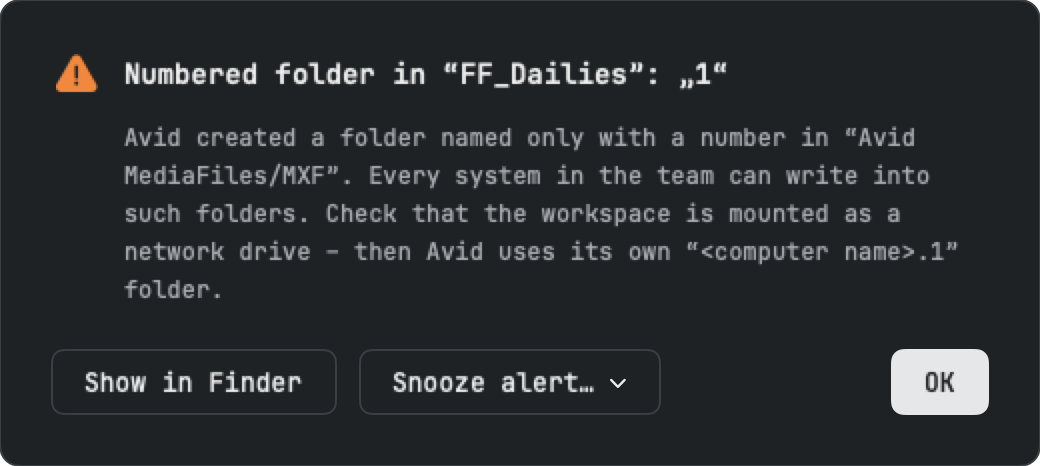
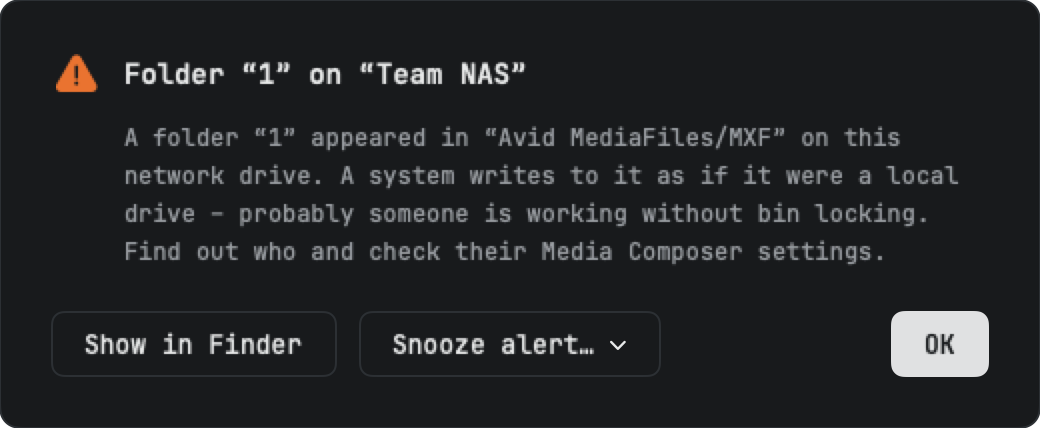
Nur der 1er-Ordner zählt, Panel bleibt bei Alarm offen
- "Eigener Ordner" warnt nur bei "1" (lokal) bzw. "<Rechnername>.1" (Netzlaufwerk)
- Netzlaufwerk-Warnung nur bei einem neuen Ordner "1"
- Warnung pro Workspace/Projekt entfernt, nur noch global
- Systemvolume steht beim Hinzufügen auf "Eigener Ordner"
- Panel schließt sich nicht mehr, wenn ein Alarm weggeklickt wird
- Screenshots (Alarm, Einstellungen) erneuert

diff --git a/Tests/MountpointTests/NumberedTests.swift b/Tests/MountpointTests/NumberedTests.swift
@@ -3,18 +3,10 @@ import Testing
 @testable import Mountpoint
 
 struct NumberedLogicTests {
-    @Test func onlyDigitsCount() {
-        #expect(isNumberedFolder("1"))
-        #expect(isNumberedFolder("12"))
-        #expect(!isNumberedFolder("Mac Studio.1"))
-        #expect(!isNumberedFolder("1a"))
-        #expect(!isNumberedFolder(""))
-        #expect(!isNumberedFolder("١"))   // keine nicht-lateinischen Ziffern
-    }
-
     @Test func ownFolderOnNetworkDrives() {
         #expect(isOwnFolder("Mac Studio.1", computer: "Mac Studio"))
-        #expect(isOwnFolder("mac studio.12", computer: "Mac Studio"))
+        #expect(isOwnFolder("mac studio.1", computer: "Mac Studio"))
+        #expect(!isOwnFolder("Mac Studio.2", computer: "Mac Studio"))   // nur der 1er
         #expect(!isOwnFolder("Mac Studio 2.1", computer: "Mac Studio"))   // anderer Rechner
         #expect(!isOwnFolder("Mac Studio.", computer: "Mac Studio"))
         #expect(!isOwnFolder("1", computer: "Mac Studio"))
@@ -40,30 +32,19 @@ struct NumberedLogicTests {
         #expect(s.state(of: p) == .none)
     }
 
-    @Test func oldWorkspaceEntriesStillLoad() throws {
-        let json = #"{"workspaces":[{"id":"7C9F8E2A-1111-4222-8333-444455556666","path":"/x/AI_Media"}]}"#
+    @Test func oldWorkspaceEntriesWithWarningStillLoad() throws {
+        let json = #"{"workspaces":[{"id":"7C9F8E2A-1111-4222-8333-444455556666","path":"/x/AI_Media","warnNumbered":true}]}"#
         let lib = try JSONDecoder().decode(Library.self, from: Data(json.utf8))
-        #expect(lib.workspaces[0].warnNumbered == nil)
+        #expect(lib.workspaces.map(\.name) == ["AI_Media"])
     }
 
-    @Test @MainActor func projectCheckmarkFollowsWorkspaces() {
-        let s = Store(directory: FileManager.default.temporaryDirectory.appendingPathComponent("mp-num-\(UUID())"))
-        s.addProject("Doku")
-        let p = s.library.projects[0].id
-        s.add(URL(fileURLWithPath: "/tmp/a"), to: p)
-        s.add(URL(fileURLWithPath: "/tmp/b"), to: p)
-        #expect(!s.projectWarns(p))
-        s.toggleProjectWarn(p)                       // Projekt an → alle an
-        #expect(s.library.workspaces.allSatisfy { $0.warnNumbered == true })
-        s.toggleWarn(s.library.workspaces[0])        // einen aus → Projekt aus, der andere bleibt an
-        #expect(!s.projectWarns(p))
-        #expect(s.library.workspaces[1].warnNumbered == true)
-        s.toggleWarn(s.library.workspaces[0])        // wieder an → Projekt an
-        #expect(s.projectWarns(p))
-        s.add(URL(fileURLWithPath: "/tmp/c"), to: p) // neuer Workspace erbt
-        #expect(s.library.workspaces[2].warnNumbered == true)
-        s.toggleProjectWarn(p)                       // Projekt aus → alle aus
-        #expect(s.library.workspaces.allSatisfy { $0.warnNumbered == false })
+    @Test @MainActor func systemVolumeWatchesOwnFolderByDefault() {
+        let s = Store(directory: FileManager.default.temporaryDirectory.appendingPathComponent("mp-sys-\(UUID())"))
+        s.addGuard(systemGuard)
+        s.addGuard("LucidLink")
+        #expect(s.library.guardOwn == [systemGuard])
+        s.removeGuard(systemGuard)
+        #expect(s.library.guardOwn.isEmpty)
     }
 }
 
@@ -71,16 +52,15 @@ struct NumberedLogicTests {
 @MainActor
 struct NumberedIntegrationTests {
     @Test(.enabled(if: ProcessInfo.processInfo.environment["MOUNTPOINT_IT"] == "1"))
-    func warnsOnlyAboutNewNumberedFolders() async throws {
+    func warnsOnlyAboutANewOneFolder() async throws {
         let src = FileManager.default.temporaryDirectory.appendingPathComponent("NumTest\(getpid())")
         try FileManager.default.createDirectory(at: src.appendingPathComponent("Avid MediaFiles/MXF/1"), withIntermediateDirectories: true)
         defer { try? FileManager.default.removeItem(at: src) }
-        var w = Workspace(path: src.path)
-        w.warnNumbered = true
+        let w = Workspace(path: src.path)
         try Mounter.mount(w, helper: MountTests.helper)
         defer { try? Mounter.unmount(w) }
 
-        let watch = FolderWatch(workspace: w)
+        let watch = FolderWatch(key: "net:" + w.volumePath, name: w.name, mxf: w.volumePath + "/Avid MediaFiles/MXF", kind: .network, matches: { $0 == "1" })
         let guardian = VolumeGuard(names: { [] }, numbered: { [watch] })
         var alerts: [[String]] = []
         guardian.presentNumbered = { _, folders in alerts.append(folders) }
@@ -90,21 +70,16 @@ struct NumberedIntegrationTests {
         let mxf = w.volumePath + "/Avid MediaFiles/MXF/"
         try FileManager.default.createDirectory(atPath: mxf + "Mac Studio.1", withIntermediateDirectories: false)
         try FileManager.default.createDirectory(atPath: mxf + "2", withIntermediateDirectories: false)
-        for _ in 0..<30 where alerts.isEmpty { try await Task.sleep(nanoseconds: 100_000_000) }
-        #expect(alerts == [["2"]])
+        try await Task.sleep(nanoseconds: 1_000_000_000)
+        #expect(alerts.isEmpty, "only \"1\" counts")
 
-        guardian.acknowledgeNumbered(watch, ["2"])
-        try FileManager.default.createDirectory(atPath: mxf + "3", withIntermediateDirectories: false)
-        for _ in 0..<30 where alerts.count < 2 { try await Task.sleep(nanoseconds: 100_000_000) }
-        #expect(alerts.last == ["3"])
-
-        // gelöscht und neu angelegt → wieder ein Alarm
-        guardian.acknowledgeNumbered(watch, ["3"])
+        // gelöscht und neu angelegt → Alarm
         try FileManager.default.removeItem(atPath: mxf + "1")
         for _ in 0..<10 { try await Task.sleep(nanoseconds: 100_000_000) }
         try FileManager.default.createDirectory(atPath: mxf + "1", withIntermediateDirectories: false)
-        for _ in 0..<30 where alerts.count < 3 { try await Task.sleep(nanoseconds: 100_000_000) }
-        #expect(alerts.last == ["1"])
+        for _ in 0..<30 where alerts.isEmpty { try await Task.sleep(nanoseconds: 100_000_000) }
+        #expect(alerts == [["1"]])
+        guardian.acknowledgeNumbered(watch, ["1"])
         try await Task.sleep(nanoseconds: 1_000_000_000)   // Volume registriert sich, bevor es ausgeworfen wird
     }
 }

diff --git a/Sources/Mountpoint/Store.swift b/Sources/Mountpoint/Store.swift
@@ -79,8 +79,6 @@ final class Store: ObservableObject {
     func add(_ url: URL, to project: UUID?) {
         var w = Workspace.make(url: url)
         w.project = project
-        // Warnt das ganze Projekt, warnt auch der neue Workspace
-        if let project, projectWarns(project) { w.warnNumbered = true }
         library.workspaces.append(w)
         save()
     }
@@ -129,30 +127,6 @@ final class Store: ObservableObject {
     func unmount(_ w: Workspace) {
         do { try Mounter.unmount(w); errors[w.id] = nil } catch { errors[w.id] = error.localizedDescription }
         refresh()
-    }
-
-    // MARK: Warnung bei nummerierten Ordnern
-
-    func toggleWarn(_ w: Workspace) {
-        guard let i = library.workspaces.firstIndex(where: { $0.id == w.id }) else { return }
-        library.workspaces[i].warnNumbered = !(library.workspaces[i].warnNumbered ?? false)
-        save()
-        notifyGuard()
-    }
-
-    /// Projekt gilt als „an“, wenn alle seine Workspaces warnen.
-    func projectWarns(_ project: UUID) -> Bool {
-        let items = workspaces(in: project)
-        return !items.isEmpty && items.allSatisfy { $0.warnNumbered == true }
-    }
-
-    func toggleProjectWarn(_ project: UUID) {
-        let on = !projectWarns(project)
-        for i in library.workspaces.indices where library.workspaces[i].project == project {
-            library.workspaces[i].warnNumbered = on
-        }
-        save()
-        notifyGuard()
     }
 
     private func notifyGuard() {
@@ -225,15 +199,17 @@ final class Store: ObservableObject {
     func addGuard(_ name: String) {
         guard !library.guarded.contains(name) else { return }
         library.guarded.append(name)
+        // Auf dem Systemvolume legt die Avid-Installation „Avid MediaFiles“ an – dort zählt nur der eigene Ordner
+        if name == systemGuard && !library.guardOwn.contains(name) { library.guardOwn.append(name) }
         save()
-        VolumeGuard.shared.refresh()
+        notifyGuard()
     }
 
     func removeGuard(_ name: String) {
         library.guarded.removeAll { $0 == name }
         library.guardOwn.removeAll { $0 == name }
         save()
-        VolumeGuard.shared.refresh()
+        notifyGuard()
     }
 
     /// „Avid MediaFiles“ (aus) oder nur der eigene Ordner in MXF (an)
@@ -241,7 +217,7 @@ final class Store: ObservableObject {
         library.guardOwn.removeAll { $0 == name }
         if on { library.guardOwn.append(name) }
         save()
-        VolumeGuard.shared.refresh()
+        notifyGuard()
     }
 
     /// Volumes, die man schützen kann: das Systemvolume und eingehängte Volumes (ohne eigene Spiegel-Volumes)
@@ -255,22 +231,21 @@ final class Store: ObservableObject {
 
     /// MXF-Ordner, in denen neue Ordner eines Musters warnen
     func folderWatches() -> [FolderWatch] {
-        var watches = library.workspaces.filter { $0.warnNumbered == true && mounted.contains($0.id) }.map(FolderWatch.init(workspace:))
+        var watches: [FolderWatch] = []
         let computer = SCDynamicStoreCopyComputerName(nil, nil) as String? ?? ""
         for name in library.guarded where library.guardOwn.contains(name) {
             let root = guardRoot(name)
             guard name == systemGuard || isMountPoint(root) else { continue }
             let local = name == systemGuard || isLocal(root)
             watches.append(FolderWatch(key: "g:" + name, name: guardName(name), mxf: root + "/Avid MediaFiles/MXF", kind: .own,
-                                       matches: local ? isNumberedFolder : { isOwnFolder($0, computer: computer) }))
+                                       matches: local ? { $0 == "1" } : { isOwnFolder($0, computer: computer) }))
         }
         if watchNetwork {
-            let taken = Set(watches.filter { $0.kind == .workspace }.map(\.mxf))
             for url in FileManager.default.mountedVolumeURLs(includingResourceValuesForKeys: [.volumeIsLocalKey], options: [.skipHiddenVolumes]) ?? [] {
                 let mxf = url.path + "/Avid MediaFiles/MXF"
-                guard url.path.hasPrefix("/Volumes/"), !isLocal(url.path), !taken.contains(mxf),
+                guard url.path.hasPrefix("/Volumes/"), !isLocal(url.path),
                       FileManager.default.fileExists(atPath: url.path + "/Avid MediaFiles") else { continue }
-                watches.append(FolderWatch(key: "net:" + url.path, name: url.lastPathComponent, mxf: mxf, kind: .network, matches: isNumberedFolder))
+                watches.append(FolderWatch(key: "net:" + url.path, name: url.lastPathComponent, mxf: mxf, kind: .network, matches: { $0 == "1" }))
             }
         }
         return watches

diff --git a/Sources/Mountpoint/Guard.swift b/Sources/Mountpoint/Guard.swift
@@ -3,8 +3,8 @@ import SwiftUI
 
 /// Ein MXF-Ordner, in dem neue Ordner eines Musters warnen.
 struct FolderWatch {
-    enum Kind { case workspace, own, network }
-    /// merkt bekannte Ordner und Pausen; bei Workspaces ihre UUID (so heißen ältere gespeicherte Listen)
+    enum Kind { case own, network }
+    /// merkt bekannte Ordner und Pausen
     let key: String
     let name: String
     let mxf: String
@@ -17,10 +17,6 @@ struct FolderWatch {
         self.mxf = mxf
         self.kind = kind
         self.matches = matches
-    }
-
-    init(workspace w: Workspace) {
-        self.init(key: w.id.uuidString, name: w.name, mxf: w.volumePath + "/Avid MediaFiles/MXF", kind: .workspace, matches: isNumberedFolder)
     }
 }
 
@@ -37,6 +33,8 @@ final class VolumeGuard {
     /// Anzeige des Alarms (Tests ersetzen sie)
     var present: ((String) -> Void)?
     var presentNumbered: ((FolderWatch, [String]) -> Void)?
+    /// hält das Panel offen, solange ein Alarm offen ist – sonst schließt ein Klick auf den Alarm das Panel
+    var hold: ((Bool) -> Void)?
 
     private var mxfWatchers: [String: DispatchSourceFileSystemObject] = [:]
     /// bereits bekannte bzw. bestätigte Ordner je Beobachtung (Warnung nur bei neuen)
@@ -211,15 +209,12 @@ final class VolumeGuard {
         let list = folders.map { "„\($0)“" }.joined(separator: ", ")
         let title, message: String
         switch w.kind {
-        case .workspace:
-            title = String(localized: "Numbered folder in “\(w.name)”: \(list)")
-            message = String(localized: "Avid created a folder named only with a number in “Avid MediaFiles/MXF”. Every system in the team can write into such folders. Check that the workspace is mounted as a network drive – then Avid uses its own “<computer name>.1” folder.")
         case .own:
             title = String(localized: "Avid is writing to “\(w.name)”: \(list)")
             message = String(localized: "Your Media Composer created its folder in “Avid MediaFiles/MXF” on this volume. Check your import or render target.")
         case .network:
-            title = String(localized: "Numbered folder on “\(w.name)”: \(list)")
-            message = String(localized: "A folder named only with a number appeared in “Avid MediaFiles/MXF” on this network drive. A system writes to it as if it were a local drive – probably someone is working without bin locking. Find out who and check their Media Composer settings.")
+            title = String(localized: "Folder “1” on “\(w.name)”")
+            message = String(localized: "A folder “1” appeared in “Avid MediaFiles/MXF” on this network drive. A system writes to it as if it were a local drive – probably someone is working without bin locking. Find out who and check their Media Composer settings.")
         }
         let view = GuardAlert(title: title, message: message,
             dark: Store.shared.dark,
@@ -253,12 +248,13 @@ final class VolumeGuard {
                                          y: screen.midY - panel.frame.height / 2 - offset))
         }
         panel.orderFrontRegardless()
+        hold?(true)
         NSSound.beep()
         alerts[key] = panel
     }
 
     private func closeAlert(_ name: String) {
-        alerts[name]?.close()
+        if let panel = alerts[name] { panel.close(); hold?(false) }
         alerts[name] = nil
         active.remove(name)
     }

diff --git a/Sources/Mountpoint/Panel.swift b/Sources/Mountpoint/Panel.swift
@@ -246,10 +246,10 @@ struct Panel: View {
                 }
             }
             .disabled(candidates.isEmpty)
-            Checkbox(title: "Warn about numbered folders on network drives", on: store.watchNetwork, theme: t) {
+            Checkbox(title: "Warn about a “1” folder on network drives", on: store.watchNetwork, theme: t) {
                 store.watchNetwork.toggle()
             }
-            Text("On every connected network drive with “Avid MediaFiles”: warns when a folder named only with a number (“1”) appears in MXF – a sign that someone is working without bin locking.")
+            Text("On every connected network drive with “Avid MediaFiles”: warns when a folder “1” appears in MXF – a sign that someone is working without bin locking.")
                 .font(.mono(11))
                 .foregroundColor(t.faint)
                 .fixedSize(horizontal: false, vertical: true)
@@ -321,8 +321,6 @@ struct Panel: View {
 
                 MoreMenu(theme: t) {
                     Toggle("Mount at app launch", isOn: Binding(get: { p.mountAtLaunch }, set: { _ in store.toggleMountAtLaunch(p) }))
-                    Toggle("Warn about numbered folders", isOn: Binding(get: { store.projectWarns(p.id) }, set: { _ in store.toggleProjectWarn(p.id) }))
-                        .disabled(items.isEmpty)
                     Button("Add workspace…") { addWorkspace(to: p.id) }
                     Button("Clear error messages") { store.clearErrors(in: p.id) }
                         .disabled(!items.contains { store.errors[$0.id] != nil })
@@ -394,7 +392,6 @@ struct Panel: View {
                 Button("Show in Finder") {
                     NSWorkspace.shared.open(URL(fileURLWithPath: isMounted ? w.volumePath : w.path))
                 }
-                Toggle("Warn about numbered folders", isOn: Binding(get: { w.warnNumbered == true }, set: { _ in store.toggleWarn(w) }))
                 Divider()
                 Button("Remove workspace…") { show(.removeWorkspace(w)) }
             }

diff --git a/Sources/Mountpoint/Model.swift b/Sources/Mountpoint/Model.swift
@@ -16,9 +16,6 @@ struct Workspace: Codable, Identifiable, Hashable {
     var share: String?
     /// Pfad innerhalb der Freigabe ("" = Freigabe selbst)
     var shareSubpath: String?
-    /// Warnen, wenn in MXF ein Ordner nur aus Ziffern entsteht ("1", "2" …) – die schreibt im Team jedes System.
-    /// Optional, damit ältere Dateien ohne das Feld weiter laden.
-    var warnNumbered: Bool?
 
     var name: String { (path as NSString).lastPathComponent }
     var volumePath: String { "/Volumes/" + name }
@@ -107,16 +104,9 @@ enum Snooze: Hashable {
     static let all: [Snooze] = [5, 10, 15, 30, 60, 120, 180, 240].map { .minutes($0) } + [.restOfDay]
 }
 
-/// Ordnername nur aus Ziffern, z. B. "1" oder "12" (nicht "Mac Studio.1")
-func isNumberedFolder(_ name: String) -> Bool {
-    !name.isEmpty && name.allSatisfy { $0.isASCII && $0.isNumber }
-}
-
-/// Ordner, den Media Composer auf einem Netzlaufwerk für diesen Rechner anlegt: "<Rechnername>.1", "<Rechnername>.2" …
+/// Ordner, den Media Composer auf einem Netzlaufwerk für diesen Rechner anlegt: "<Rechnername>.1"
 func isOwnFolder(_ name: String, computer: String) -> Bool {
-    let prefix = computer.lowercased() + "."
-    guard !computer.isEmpty, name.lowercased().hasPrefix(prefix) else { return false }
-    return isNumberedFolder(String(name.dropFirst(prefix.count)))
+    !computer.isEmpty && name.lowercased() == computer.lowercased() + ".1"
 }
 
 /// Eintrag in `Library.guarded` für das Systemvolume: dort liegt „Avid MediaFiles“ nicht in der obersten Ebene.

diff --git a/Sources/Mountpoint/main.swift b/Sources/Mountpoint/main.swift
@@ -37,6 +37,7 @@ final class AppDelegate: NSObject, NSApplicationDelegate {
             self?.popover.appearance = NSAppearance(named: dark ? .darkAqua : .aqua)
         }
         store.mountAtLaunch()
+        VolumeGuard.shared.hold = { [weak self] on in self?.hold(on) }
         VolumeGuard.shared.start()
         Welcome.showIfNeeded()
         Updater.shared.start()

diff --git a/CLAUDE.md b/CLAUDE.md
@@ -13,9 +13,9 @@ Mac-only menu bar app (own `NSStatusItem` + `NSPopover` with SwiftUI, `LSUIEleme
 - Always decode `Library` with `decodeIfPresent`: old files without new fields must still load.
 - An unreadable `library.json` is set aside (`library-unreadable-<time>.json`) with a notice – never continue silently with an empty list (the next save would overwrite it).
 - Errors must say what happened and what to do, in plain words (EN + DE); technical output goes after "Details:". Per-workspace errors show in the row, app-wide ones in `Store.notice` (banner in the panel; menu bar icon gets a dot). No `NSAlert` while the panel is open; on quit, an alert lists volumes that stay mounted.
-- Protected volumes have a mode per volume: `Library.guarded` (names; `systemGuard` "/" = system volume, watched at `/Users/Shared/AvidMediaComposer`, shown under its Finder name via `guardName`) and `Library.guardOwn` (names watching only the own folder in MXF: digits on local volumes, "<ComputerName>.N" (`SCDynamicStoreCopyComputerName`) on non-local ones). Setting `Store.watchNetwork` (default off): every mounted non-local volume with "Avid MediaFiles" warns about digit-only folders (someone without bin locking). All MXF watches are `FolderWatch` values from `Store.folderWatches()`; the known list is keyed by `FolderWatch.key` (workspace UUID, "g:<name>", "net:<path>").
+- Protected volumes have a mode per volume: `Library.guarded` (names; `systemGuard` "/" = system volume, watched at `/Users/Shared/AvidMediaComposer`, shown under its Finder name via `guardName`) and `Library.guardOwn` (names watching only the own folder in MXF; the system volume gets it when added: exactly "1" on local volumes, exactly "<ComputerName>.1" (`SCDynamicStoreCopyComputerName`) on non-local ones). Setting `Store.watchNetwork` (default off): every mounted non-local volume with "Avid MediaFiles" warns about a new folder exactly "1" (someone without bin locking). All MXF watches are `FolderWatch` values from `Store.folderWatches()`; the known list is keyed by `FolderWatch.key` ("g:<name>", "net:<path>"). Alerts call `VolumeGuard.hold` (→ AppDelegate.hold) while open: the popover is transient and would close when the alert is clicked.
 - Workspace errors can be dismissed: × in the row, "Clear error messages" in the project ⋯ menu (`Store.clearError`/`clearErrors(in:)`). They don't vanish on their own – a mount failure at launch must still be visible when the panel is opened later.
-- Numbered-folder warning: `Workspace.warnNumbered` (optional for old files); project checkmark = all its workspaces on; new workspaces inherit it. Guard watches `<volume>/Avid MediaFiles/MXF` (kqueue + 60 s); folders present when watching starts are "known", only new ones alert; "OK" adds them to the known list (UserDefaults `numberedKnown`); deleted folders are dropped from it, so recreating "1" alerts again.
+- MXF watches (`<volume>/Avid MediaFiles/MXF`, kqueue + 60 s): no per-workspace/project warning any more (removed in beta 13 at the user's request, old `warnNumbered` keys are ignored). Folders present when watching starts are "known", only new ones alert; "OK" adds them to the known list (UserDefaults `numberedKnown`); deleted folders are dropped from it, so recreating "1" alerts again.
 - No trash: network-style volumes have none, deleting is permanent (the welcome panel says so, also for folders on local drives). A helper workaround that moved Finder deletions into the source volume's trash was removed in 1.0.0 beta 11 at the user's request (it failed for folders on NAS shares) – don't bring it back.
 - `m_setxattr` strips `XATTR_NOSECURITY`/`XATTR_NODEFAULT`: the Finder passes them when copying (FinderInfo), `setxattr()` rejects kernel-only flags with EINVAL and the Finder fails with error -50 (`cp`/`ditto` never hit it – test copies with the Finder, e.g. `osascript … duplicate`).
 - First launch: `Welcome.swift` shows a centered panel ("deleting is permanent, keep a backup" + "use at your own risk") until "I understand" sets UserDefaults `welcomeConfirmed2` (new key when the text changes in substance, so everyone sees it again). Switching "Mount as network drive" on shows the `networkInfo` card.

diff --git a/README.md b/README.md
@@ -18,13 +18,13 @@ Built for Avid Media Composer: Avid only finds media in an `Avid MediaFiles` fol
 - **Create folders** – create new workspace folders, with `Avid MediaFiles/MXF` inside, directly from the folder picker.
 - **Avid collaboration** – by default workspaces are mounted as *network drives*. Media Composer Enterprise (from version 2026.8 on) then creates a `<computer name>.1` media folder instead of `1`, like on shared storage, so several systems (e.g. synced with Syncthing) never write into the same folder. Turn off *filter network drives* in Avid's Media Creation settings. Can be switched off in the settings.
 - **Protected volumes** – get an alert as soon as Avid creates `Avid MediaFiles` on a volume where it should never write (e.g. LucidLink), or – per volume – only when your own Media Composer creates its folder there. The Mac's system volume can be protected too. Alerts can be snoozed per volume (5 min … rest of the day).
-- **Warning about numbered folders** – per workspace or for a whole project (⋯ menu): an alert as soon as Avid creates a folder named only with a number (`1`, `2` …) in `Avid MediaFiles/MXF` – in a team every system can write into those. A setting does the same for every connected network drive with `Avid MediaFiles`: a `1` folder there is a sign that someone works without bin locking.
+- **Warning about a `1` folder on network drives** – a setting: on every connected network drive with `Avid MediaFiles`, an alert as soon as a folder `1` appears in `Avid MediaFiles/MXF` – a sign that someone works without bin locking.
 - **Updates from within the app:** Mountpoint checks GitHub for new versions, shows a notice and installs the update with one click – it replaces itself, restarts and mounts your workspaces again. You can also check by hand under Settings → Updates.
 - **Own volume icon** in the Finder and **plain-language error messages** that say what went wrong and what to do.
 - **Safe** – Mountpoint never deletes, moves or overwrites files. It never force-ejects: if Avid still has files open, the volume stays mounted.
 - English, German, French and Spanish, light and dark appearance, launch at login.
 
-<p align="center"><picture><source media="(prefers-color-scheme: dark)" srcset="assets/screenshots/alert-dark.png"><img src="assets/screenshots/alert-light.png" width="520" alt="Alert: Avid created a numbered folder in a workspace"></picture></p>
+<p align="center"><picture><source media="(prefers-color-scheme: dark)" srcset="assets/screenshots/alert-dark.png"><img src="assets/screenshots/alert-light.png" width="520" alt="Alert: a folder “1” appeared on a network drive"></picture></p>
 
 <p align="center"><picture><source media="(prefers-color-scheme: dark)" srcset="assets/screenshots/settings-dark.png"><img src="assets/screenshots/settings-light.png" width="400" alt="Settings: launch at login, network drive, appearance, language, protected volumes, updates"></picture></p>
 
@@ -78,7 +78,7 @@ The menu bar icon (a drive with a folder) appears at the top right. It is filled
 
 Choose per volume what to watch:
 - **Avid MediaFiles** (default) – any `Avid MediaFiles` folder at the top level of the volume.
-- **Own folder** – only the folder your own Media Composer creates in `Avid MediaFiles/MXF`: `1`, `2` … on local drives, `<computer name>.1` on network drives. Folders other systems write (e.g. on a shared cloud drive) don't alert.
+- **Own folder** (default for the system volume, where the Avid installation always creates `Avid MediaFiles`) – only the folder your own Media Composer writes into in `Avid MediaFiles/MXF`: `1` on local drives, `<computer name>.1` on network drives. Folders other systems write (e.g. on a shared cloud drive) don't alert.
 
 The system volume (e.g. *Macintosh HD*) is listed under its Finder name; there Media Composer uses `/Users/Shared/AvidMediaComposer/Avid MediaFiles`, so that is the folder Mountpoint watches.
 
